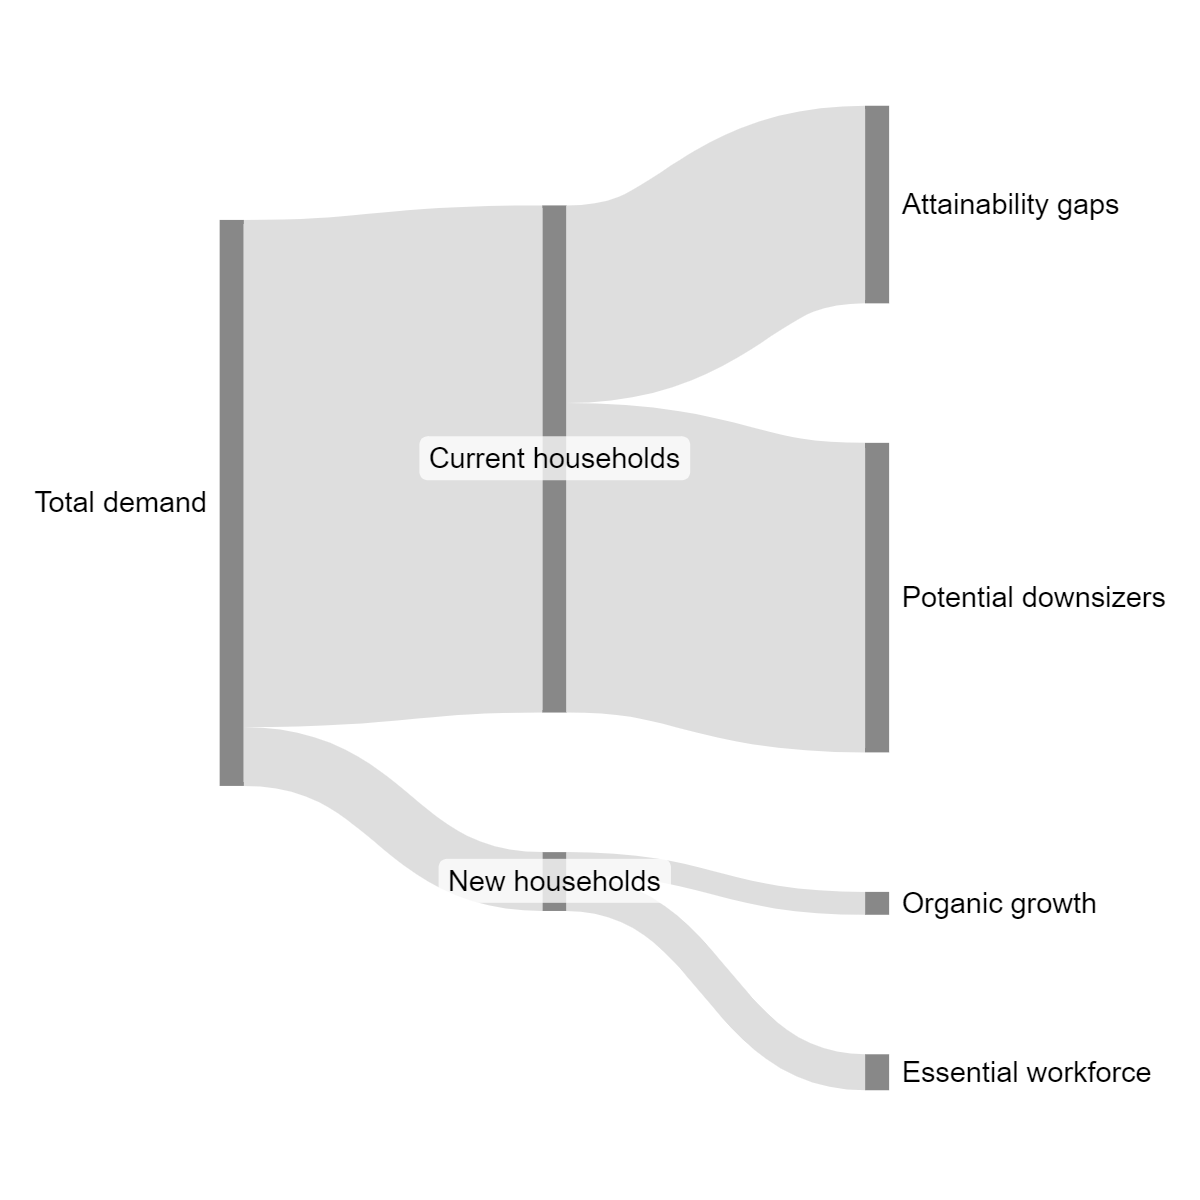
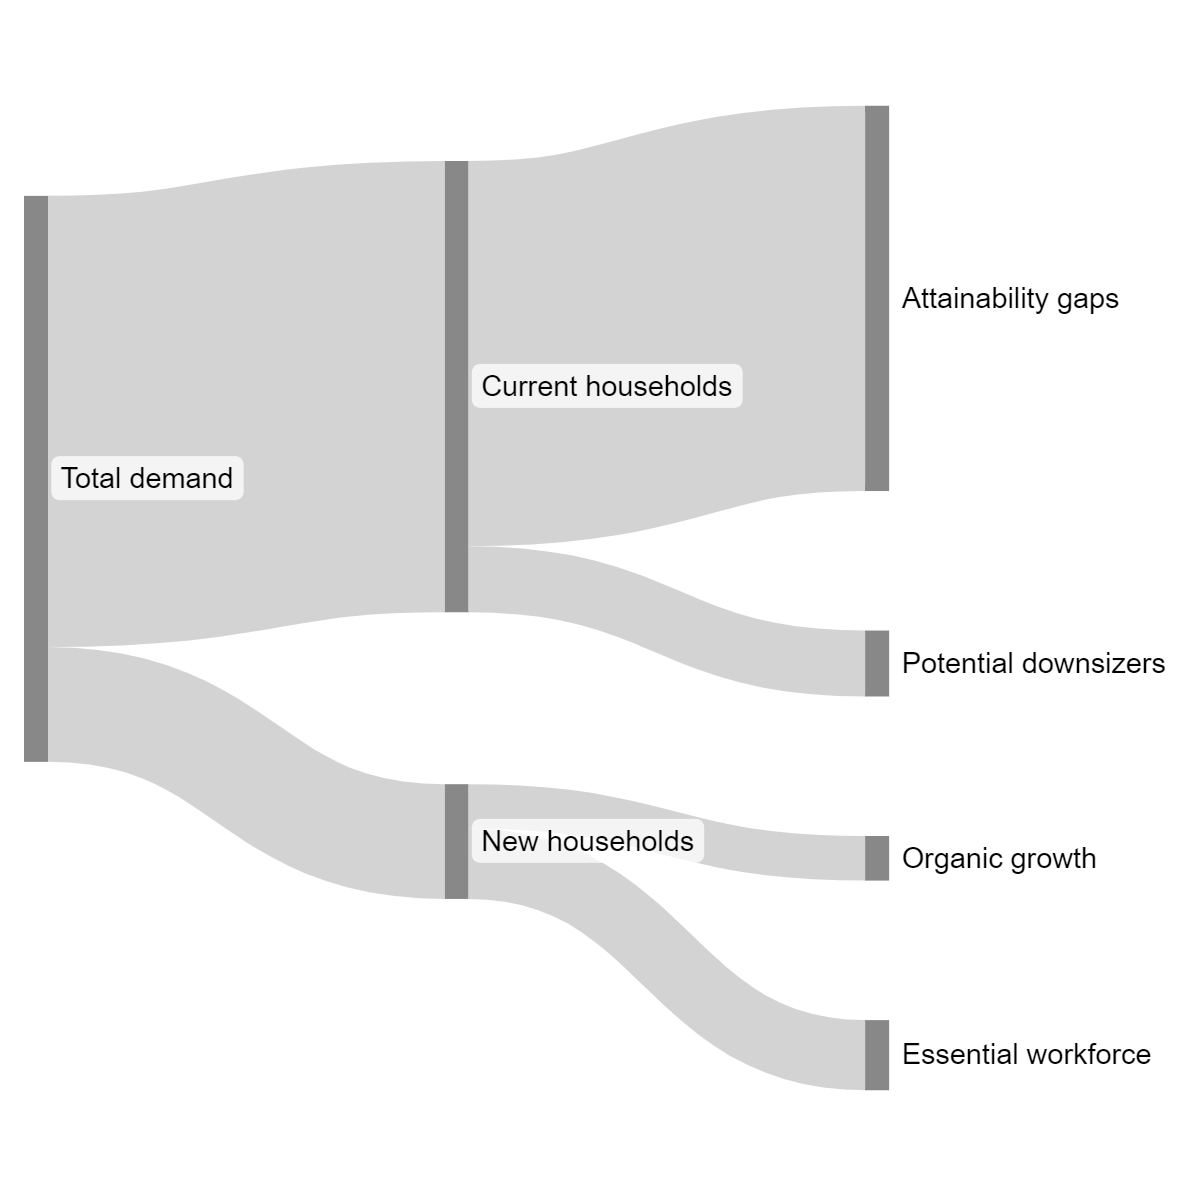
Marshall demand

Changed region(s): [[0.0, 0.0925, 0.9558, 0.925], [0.74, 0.1542, 0.925, 0.185], [0.6475, 0.8942, 0.6783, 0.925]]

diff --git a/marshall.html b/marshall.html
@@ -629,16 +629,16 @@
 		<div class="row">
 			<div class="twelve columns" style="margin-top: 2%">
 				<p>In order to calibrate future housing production to best meet the community's needs, two factors must be established: how many units are needed in total and what is the right mix of unit types and prices. The following section addresses each of these factors to inform recommendations that effectively meet local need and reflect the community's values and priorities.</p>
-				<h3>Sources of housing demand in Elkhart County</h3>
-				<h5>Elkhart County's housing demand orginates from both current and new households.</h5>
+				<h3>Sources of housing demand in Marshall County</h3>
+				<h5>Marshall County's housing demand orginates from both current and new households.</h5>
 			</div>
 		</div>
 		<div class="row">
 			<div class="eight columns" style="margin-top: 2%">
-				<p><img src="./images/sankeymatic_demand_short_nologo.png" height=auto width=100% title="CommunityScale" alt="CommunityScale"></a></p>
+				<p><img src="./images/Marshall_sankey_demand1.png" height=auto width=100% title="CommunityScale" alt="CommunityScale"></a></p>
 			</div>
 			<div class="four columns" style="margin-top: 2%">
-				<p>Based on the analyses contained within the People and Place sections of this report, Elkhart County’s housing demand is driven by a number of factors that include both unmet demand among existing residents and new growth among projected and potential future residents. This chart illustrates demand origins on the left and demand drivers on the right.</p>
+				<p>Based on the analyses contained within the People and Place sections of this report, Marshall County’s housing demand is driven by a number of factors that include both unmet demand among existing residents and new growth among projected and potential future residents. This chart illustrates demand origins on the left and demand drivers on the right.</p>
 				<p>Each demand driver in more detail below followed by an estimated quantification of total demand by income level.</p>
 			</div>
 		</div>
@@ -657,7 +657,7 @@
 				</script>
 			</div>
 			<div class="four columns" style="margin-top: 2%">
-				<p>The gap analysis compares Elkhart County’s distribution of household incomes to its mix of housing options by cost to uncover potential supply shortages at different price points. The analysis identified a shortage of 12,502 units across a range of price points below $1,650 per month.</p>
+				<p>The gap analysis compares Marshall County’s distribution of household incomes to its mix of housing options by cost to uncover potential supply shortages at different price points. The analysis identified a shortage of 2,566 units across a range of price points below $1,750 per month.</p>
 				<p>Adding units at these price points would help take pressure off existing residents currently experiencing cost burden.</p>
 			</div>
 		</div>
@@ -675,7 +675,7 @@
 				<table>
 					<tr>
 						<td>65+ households of 1-2 people in 3+ bedroom units</td>
-						<td>17,869</td>
+						<td>4,880</td>
 					</tr>
 					<tr>
 						<td>Potential annual downsizing rate</td>
@@ -683,15 +683,15 @@
 					</tr>
 					<tr>
 						<th>Units needed to accommodate downsizers over 10 years</th>
-						<th>5,361</th>
+						<th>1,464</th>
 					</tr>
 				</table>
 			</div>
 			<div class="four columns" style="margin-top: 2%">
-				<p>Elkhart County’s seniors currently comprises a modest portion of the total population but this share is expected to grow over the next 10 years. Most of these seniors live in relatively large units of 3 or more bedrooms.</p>
+				<p>Marshall County’s seniors currently comprises a modest portion of the total population but this share is expected to grow over the next 10 years. Most of these seniors live in relatively large units of 3 or more bedrooms.</p>
 			</div>
 			<div class="twelve columns" style="margin-top: 2%">
-				<p>Given changing housing preferences and needs as people age, it is likely a portion of these senior households will explore downsizing options such as a smaller, accessible unit with fewer bedrooms located in a walkable location. If 3% of these households sought new units to downsize into each year, the county would need to add 5,361 units appropriate for seniors over the next 10 years.</p>
+				<p>Given changing housing preferences and needs as people age, it is likely a portion of these senior households will explore downsizing options such as a smaller, accessible unit with fewer bedrooms located in a walkable location. If 3% of these households sought new units to downsize into each year, the county would need to add 1,464 units appropriate for seniors over the next 10 years.</p>
 			</div>
 		</div>
 	</div>
@@ -709,40 +709,40 @@
 				</script>
 			</div>
 			<div class="four columns" style="margin-top: 2%">
-				<p>Recent trends suggests Elkhart County should expect to grow by 1,936 new households over the next 10 years.</p>
+				<p>Recent trends suggests Marshall County should expect to shrink by 644 households over the next 10 years.</p>
 			</div>
 		</div>
 		<div class="row">
 			<div class="eight columns" style="margin-top: 2%">
 				<table>
 					<tr>
-						<td>Household growth: 1,936</td>
+						<td>Household growth: 0</td>
 						<td>Forecasted from 2024 to 2034.</td>
 					</tr>
 					<tr>
 						<td>Overcrowding adjustment: 0</td>
-						<td>Local rate of 2.5% is below the national average of 3.4%.</td>
+						<td>Local rate of 1.7% is below the national average of 3.4%.</td>
 					</tr>
 					<tr>
-						<td>Replacement housing: 399</td>
+						<td>Replacement housing: 99</td>
 						<td>0.05% of the housing stock is replaced annually</td>
 					</tr>
 					<tr>
 						<td>Vacancy adjustment: 0</td>
-						<td>Local rate of 11.2% is above the healthy market minimum of 5%</td>
+						<td>Local rate of 17.2% is above the healthy market minimum of 5%</td>
 					</tr>
 					<tr>
 						<td>Substandard adjustment: 0</td>
-						<td>Local rate of 0.2% is below the national average of 0.4%</td>
+						<td>Local rate of 0.1% is below the national average of 0.4%</td>
 					</tr>
 					<tr>
-						<th>Total units needed: 2,335</th>
+						<th>Total units needed: 99</th>
 						<th>To keep up with growth and maintain a healthy housing stock</th>
 					</tr>
 				</table>
 			</div>
 			<div class="four columns" style="margin-top: 2%">
-				<p>To meet the trends extended growth projection, Elkhart County would need to add 2,335 housing units over the next decade. This production target combines demand driven by net household growth as well as other factors which also contribute to maintaining a suitable housing supply over time.</p>
+				<p>To meet the trends extended growth projection, Marshall County would need to add 99 housing units over the next decade. This production target combines demand driven by net household growth (or lack thereof in this case) as well as other factors detailed at right which also contribute to maintaining a suitable housing supply over time.</p>
 			</div>
 		</div>
 	</div>
@@ -758,31 +758,32 @@
 			<div class="eight columns" style="margin-top: 2%">
 				<table>
 					<tr>
-						<td>Jobs in Elkhart County</td>
-						<td>134,120</td>
+						<td>Jobs in Marshall County</td>
+						<td>17,422</td>
 					</tr>
 					<tr>
-						<td>Workers that live and work in Elkhart County</td>
-						<td>26,959</td>
+						<td>Workers that live and work in Marshall County</td>
+						<td>8,244</td>
 					</tr>
 					<tr>
-						<td>Portion of local workforce that live in Elkhart County</td>
-						<td>20%</td>
+						<td>Portion of local workforce that also lives in Marshall County</td>
+						<td>47%</td>
 					</tr>
 					<tr>
 						<td>Desired portion by 2034</td>
-						<td>25%</td>
+						<td>50%</td>
 					</tr>
 					<tr>
 						<th>Additional workforce households (and units) by 2034</th>
-						<th>6,571</th>
+						<th>467</th>
 					</tr>
-				</table>			</div>
+				</table>			
+			</div>
 			<div class="four columns" style="margin-top: 2%">
-				<p>As a regional employment hub, Elkhart County contains more jobs than housing units. However, only about 20% of the people working in Elkhart County live in the County as well. While many of the workers who commute into the city simply choose to live somewhere else, a portion of these workers may prefer to live in the County if the right housing options were available.</p>
+				<p>Marshall County contains more workers than jobs. About 47% of the people working in Marshall County live in the County as well. While many of the workers who commute into the city simply choose to live somewhere else, a portion of these workers may prefer to live in the County if the right housing options were available. Increasing  the rate of local workforce living in Elkhart County  to 50% by 2034 would require providing 467 additional households.</p>
 			</div>
 			<div class="twelve columns" style="margin-top: 2%">
-				<p>Increasing  the rate of local workforce living in Elkhart County to 25% by 2034 would require providing 6,571 additional households.</p>
+				<p>Increasing  the rate of local workforce living in Marshall County to 50% by 2034 would require providing 467 additional households.</p>
 				<p>“Workforce housing” is typically considered affordable to 80-120% AMI, a segment of the population vulnerable to displacement if they cannot find adequate and affordable housing, including police, firefighters, teachers, skilled nurses, and municipal employees.</p>
 			</div>
 		</div>
@@ -792,15 +793,62 @@
 		<div class="row">
 			<div class="twelve columns" style="margin-top: 2%">
 				<h3>Housing demand by income level</h3>
+			</div>
+		</div>
+		<div class="row">
+			<div class="four columns" style="margin-top: 2%">
+				<h5>There is demand for 26,603 units over the next 10 years.</h5>
+				<table>
+					<tr>
+					  <th>AMI</th>
+					  <th>Total demand <br>(units)</th>
+					</tr>
+					<tr>
+					  <td>&lt;30%</td>
+					  <td>573</td>
+					</tr>
+					<tr>
+					  <td>30-60%</td>
+					  <td>1,484</td>
+					</tr>
+					<tr>
+					  <td>60-80%</td>
+					  <td>617</td>
+					</tr>
+					<tr>
+					  <td>80-100%</td>
+					  <td>386</td>
+					</tr>
+					<tr>
+					  <td>100-120%</td>
+					  <td>162</td>
+					</tr>
+					<tr>
+					  <td>&gt;120%</td>
+					  <td>251</td>
+					</tr>
+						<td></td>
+						<th>3,474</th>
+				</table>
+				<p>The table above summarizes the demand generated by the factors described in this section of the analysis. These figures account for potential overlap between different demand factors to avoid double counting, resulting in a total that might be less than the sum of the factors. For example, many senior households fall into bot attainability gaps and potential downsizer categories.</p>		
+			</div>
+			<div class="eight columns" style="margin-top: 2%">
 				<h5>Each source of demand includes a different mix of household incomes.</h5>
+				<p><img src="./images/Marshall_sankey_demand2b.png" height=auto width=100% title="CommunityScale" alt="CommunityScale"></a></p>
+				<p>The diagram above illustrates how Marshall County’s 10-year housing demand translate into income levels. While this distribution reflects expected demand over the next 10 years, it does not necessarily coincide with the housing production target in the following Results section. Housing for each income level requires a different set of policies, programs, and subsidies to build. In many cases, there simply is not enough capacity to meet the full demand right away.</p>
+			</div>
+			<div class="six columns" style="margin-top: 2%">
 			</div>
 		</div>
 		<div class="row">
 			<div class="eight columns" style="margin-top: 2%">
-				<p><img src="./images/sankeymatic_demand+income_short_nologo.png" height=auto width=100% title="CommunityScale" alt="CommunityScale"></a></p>
 			</div>
 			<div class="four columns" style="margin-top: 2%">
-				<p>This diagram illustrates how Elkhart County’s 10-year housing demand translate into income levels. While this distribution reflects expected demand over the next 10 years, it does not necessarily coincide with the housing production target in the following Results section. Housing for each income level requires a different set of policies, programs, and subsidies to build. In many cases, there simply is not enough capacity to meet the full demand right away.</p>
+				
+			</div>
+		</div>
+		<div class="row">
+			<div class="twelve columns" style="margin-top: 2%">
 			</div>
 		</div>
 	</div>
@@ -824,7 +872,7 @@
 				</table>
 			</div>
 			<div class="six columns" style="margin-top: 2%">
-				<p>Household structures have changed significantly since much of Elkhart County’s housing supply was built. Today, households are smaller, less likely to have one or more children, and more likely to include non-family or multi generational cohabitants. Future development should be designed to reflect the current diversity of household structures and wider range of housing needs and preferences.</p>
+				<p>Household structures have changed significantly since much of Marshall County’s housing supply was built. Today, households are smaller, less likely to have one or more children, and more likely to include non-family or multi generational cohabitants. Future development should be designed to reflect the current diversity of household structures and wider range of housing needs and preferences.</p>
 			</div>
 		</div>
 		<div class="row">
@@ -835,7 +883,7 @@
 		<div class="row">
 			<div class="six columns" style="margin-top: 2%">
 				<table>
-					<tr><td><b>Moderate cost for families:</b> Workforce families can afford units that cost $1,700 - 2,500 per month.</td></tr>
+					<tr><td><b>Moderate cost for families:</b> Workforce families can afford units that cost $1,750 - 2,650 per month.</td></tr>
 					<tr><td><b>Lower cost for singles:</b> One-person workforce households cannot afford as much as dual-earner families.</td></tr>
 					<tr><td><b>Not to too many bedrooms:</b> Workforce-oriented housing should include mostly 0-2 bedroom units.</td></tr>
 					<tr><td><b>Well-maintained:</b> Workforce can afford rent/mortgage but large capital costs can be destabilizing.</td></tr>
@@ -894,8 +942,8 @@
 				<p><img src="./images/Elkhart homeownership.png" height=auto width=100% title="CommunityScale" alt="CommunityScale"></a></p>
 			</div>
 			<div class="six columns" style="margin-top: 2%">
-				<p>Elkhart County has a lower rate of homeownership than the rest of the state but higher than the national average. While it is important to maintain a significant rental housing supply to provide options for people not interested in or ready to buy, a majority of people prefer homeownership for at least certain periods of their lives, such as starting and raising a family.</p>
-				<p>The Elkhart County community has expressed interest in stronger pathways to homeownership, especially among middle-income households. Adding more ownership units will contribute to this goal, along with other support such as financial assistance to overcome high down payment and financing costs.</p>
+				<p>Marshall County has a higher rate of homeownership than the rest of the state and the national average. While it is important to maintain a significant rental housing supply to provide options for people not interested in or ready to buy, a majority of people prefer homeownership for at least certain periods of their lives, such as starting and raising a family.</p>
+				<p>Adding more rental units to bring the housing supply closer to the state and national averages would improve the balance of housing options across the county.</p>
 			</div>
 		</div>
 	</div>
